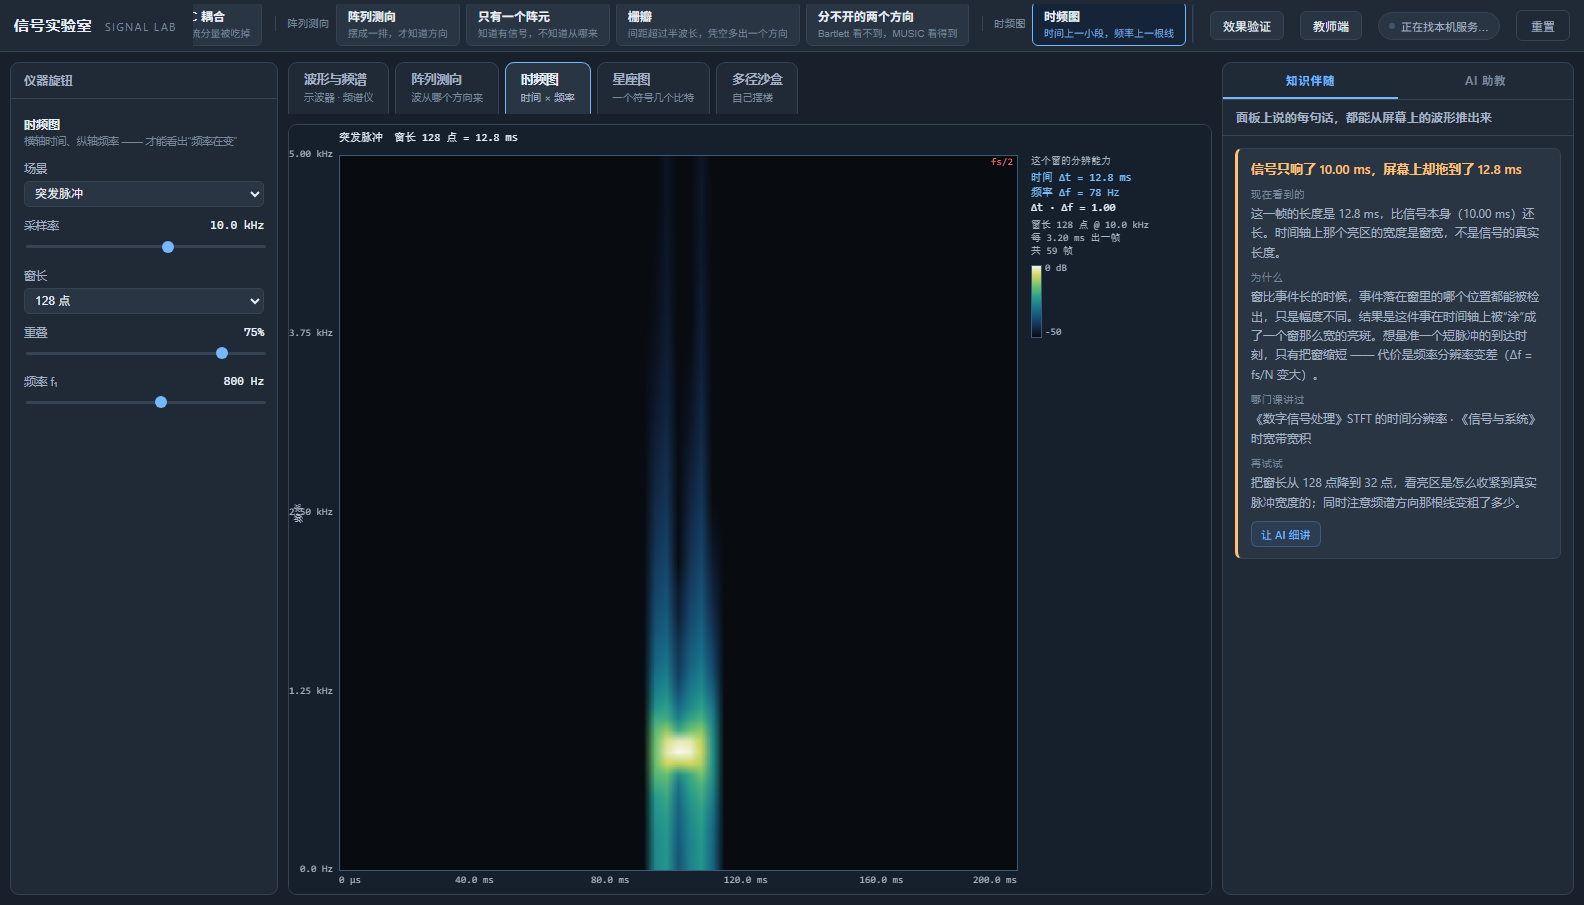
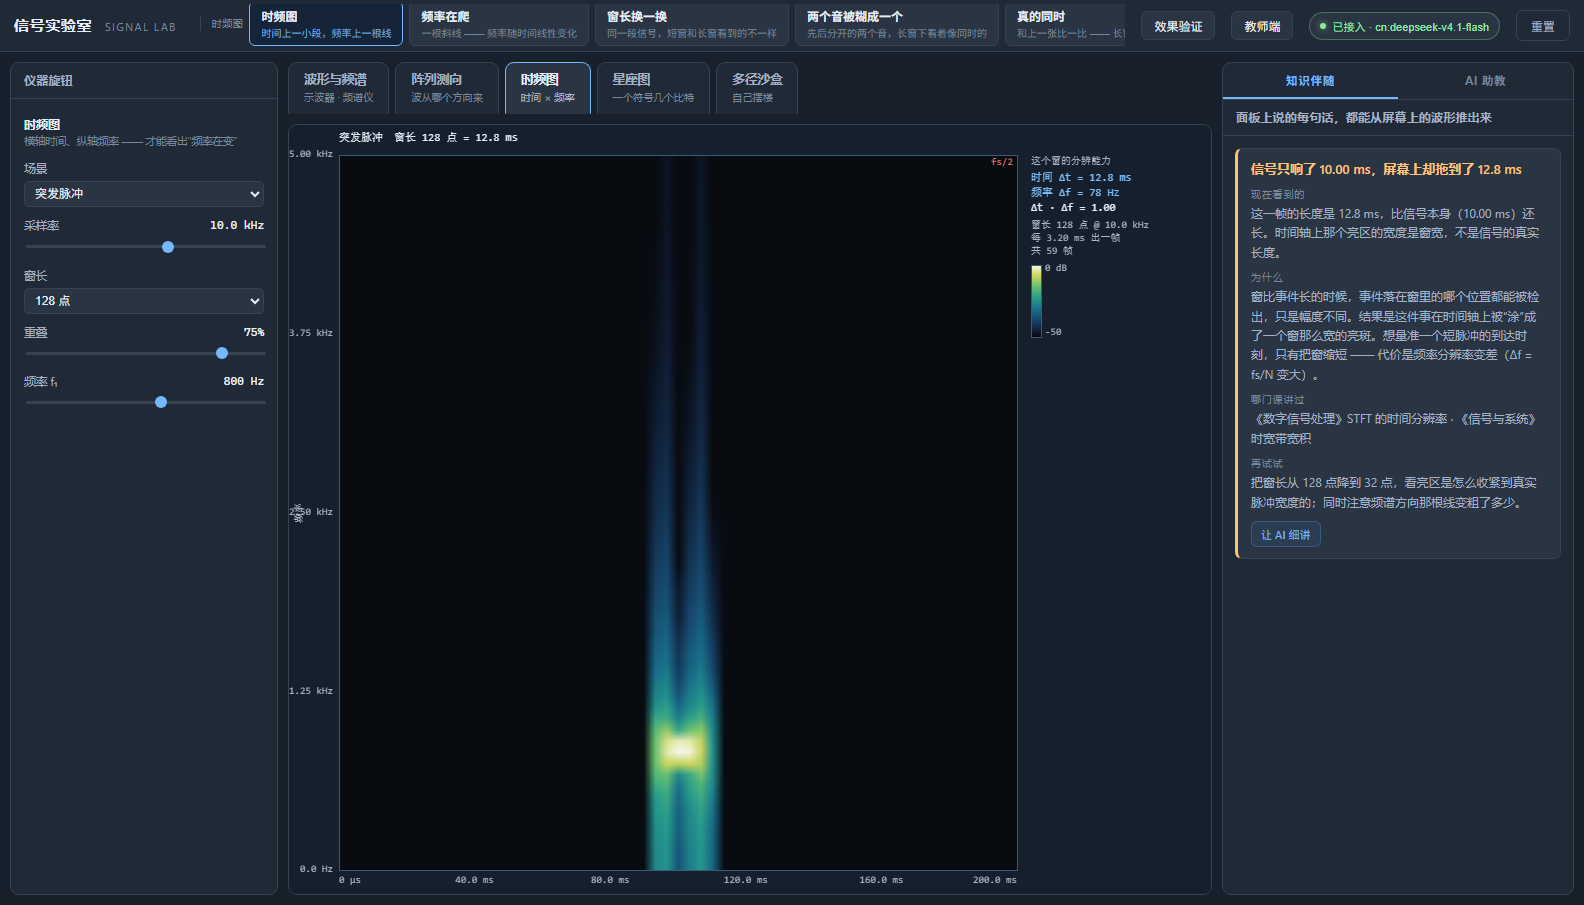
顶栏预设跟着页签过滤，一次只列当前那台仪器的几个
- 二十六个预设摆一排谁也找不到自己要看的那几个，改成按页签过滤
- 加 docs/发布到GitHub.md，写清本地仓库现状与推上去的两个命令
- 刷新 docs/img 下五张仪器截图

Changed region(s): [[0.1237, 0.0, 0.928, 0.0619]]

diff --git a/app/js/main.js b/app/js/main.js
@@ -311,6 +311,16 @@
         b.setAttribute('aria-selected', on ? 'true' : 'false');
       });
     }
+    // 顶栏的预设也只留这台仪器的，二十六个摆一排谁也找不到自己要看的那几个
+    if (els.presets) {
+      els.presets.querySelectorAll('.preset').forEach(function (b) {
+        b.hidden = b.dataset.instr !== id;
+      });
+      els.presets.querySelectorAll('.preset-group').forEach(function (g) {
+        g.hidden = g.dataset.instr !== id;
+      });
+      els.presets.scrollLeft = 0;
+    }
     if (els.controls) {
       els.controls.querySelectorAll('.group').forEach(function (g) {
         g.hidden = g.dataset.instr !== id;
@@ -787,10 +797,12 @@
         var lab = document.createElement('span');
         lab.className = 'preset-group' + (g.at === 0 ? ' preset-group--first' : '');
         lab.textContent = g.name;
+        lab.dataset.instr = g.instr || 'wave';
         els.presets.appendChild(lab);
       });
       var b = document.createElement('button');
       b.className = 'preset';
+      b.dataset.instr = instrOfPreset(idx);
       b.innerHTML = '<b>' + pre.name + '</b><i>' + pre.hint + '</i>';
       b.addEventListener('click', function () { applyPreset(idx); });
       els.presets.appendChild(b);

diff --git a/app/css/style.css b/app/css/style.css
@@ -97,6 +97,9 @@ body {
 }
 .preset-group--first { margin-left: 0; padding-left: 0; border-left: 0; }
 
+.preset[hidden],
+.preset-group[hidden] { display: none; }
+
 .preset {
   flex: 0 0 auto;
   display: flex;
@@ -111,7 +114,7 @@ body {
   text-align: left;
   transition: border-color .12s, background .12s;
 }
-.preset b { font-size: 12px; font-weight: 600; }
+.preset b { font-size: 12px; font-weight: 600; white-space: nowrap; }
 .preset i {
   font-size: 10px;
   font-style: normal;

diff --git a/docs/发布到GitHub.md b/docs/发布到GitHub.md
@@ -1,0 +1,85 @@
+# 把这个项目单独推成一个 GitHub 仓库
+
+本地仓库已经建好了：`em-signal-lab/` 自己就是一个独立的 git 仓库，两次提交都在本地，跟外面的 `EM-benchmark` 仓库没有关系（父仓库没有跟踪这个目录）。
+
+差的只有一步：远端地址和一次 `push`。
+
+---
+
+## 1. 在 GitHub 上建一个空仓库
+
+打开 <https://github.com/new>，填：
+
+| 字段 | 填什么 |
+| --- | --- |
+| Repository name | `em-signal-lab` |
+| Description | 浏览器里的电子实验室：仿真仪器 + AI 助教 + 分层练习 |
+| 可见性 | Public |
+| Initialize this repository with | **三个都不要勾**（不勾 README、不勾 .gitignore、不选 license） |
+
+勾了的话远端会先有一个提交，`push` 会被拒（non-fast-forward），还得多一步 `--allow-unrelated-histories`。空仓库最省事。
+
+---
+
+## 2. 配好远端并推上去
+
+在 PowerShell 或 Git Bash 里：
+
+```bash
+cd D:/srtp/EM-benchmark/em-signal-lab
+
+git remote add origin https://github.com/qingchen102/em-signal-lab.git
+git push -u origin main
+```
+
+第一次推会弹出 Git Credential Manager 让你登录 GitHub 或授权，登一次以后就记住了。
+
+如果习惯用 SSH：
+
+```bash
+git remote add origin git@github.com:qingchen102/em-signal-lab.git
+git push -u origin main
+```
+
+---
+
+## 3. 推上去之后建议做的两件事
+
+**改仓库描述和话题。** GitHub 仓库页右上角 ⚙ → Description 填一句话，Topics 建议填：
+
+```
+signal-processing  oscilloscope  dsp  education  hackathon  vanilla-js  canvas
+```
+
+**给 README 顶部加一行在线体验说明。** 这个项目是纯前端、零依赖，理论上把 `app/` 目录丢到 GitHub Pages 上就能直接在线打开：
+
+```bash
+# 仓库 Settings → Pages → Source 选 Deploy from a branch → main / 根目录
+# 然后把访问地址加进 README
+```
+
+注意要放 `app/` 下的文件，或者把 Pages 的目录指到 `app/`。页面里 AI 助教需要本机转发服务（上游中转站不响应 CORS 预检），放到 Pages 上之后助教会连不上 —— 这是已知的、写进 README 里的限制；五台仪器本身完全离线可用。
+
+---
+
+## 4. 以后每次改完怎么推
+
+```bash
+cd D:/srtp/EM-benchmark/em-signal-lab
+git add -A
+git commit -m "改了什么"
+git push
+```
+
+---
+
+## 现在仓库里有什么
+
+| | |
+| --- | --- |
+| 文件数 | 135 |
+| 仓库体积 | 约 2.1 MB（含 7 张界面截图） |
+| 提交 | 2 次 |
+| 被 gitignore 的 | `shots/`（本机截图草稿）、`llm.local.json`（含 API Key）、`__pycache__` |
+
+进仓库的截图在 `docs/img/`，README 开头引的就是这几张。

diff --git a/PLAN.md b/PLAN.md
@@ -25,7 +25,7 @@
 | 多径沙盒 | ✅ | 二维几何光学：镜像法 1～2 阶镜面反射 + 垂直极化菲涅尔系数 + 自由空间路损 + 矩形遮挡；四个场景（开阔地 / 城市峡谷 / 街角 / 密集楼群）；楼、发射机、阵列都能拖，松手就重算；右侧实时读出时延扩展 σ_τ 与相干带宽 Bc = 1/(5σ_τ)；上方 DOA 条把几何路径喂给阵列 —— **一台发射机在谱上真出现了好几个峰**。相干多径下 MUSIC 的谱不能按峰读数：实测（117 次运行）它每次都至少报出一个假峰（canyon 预设里多出 +68.5°，那里没有路径），而 Bartlett 一次都没有 |
 | 界面组织 | ✅ | 顶部五个页签对应五台仪器，**一次只展开一台**；左侧旋钮栏只留当前这台仪器的分组，知识面板也只出这台仪器的卡片。一屏只有几个键，跟真实示波器的面板一个思路 |
 | 知识伴随面板 | ✅ | 30 条规则（10 条时域频域 + 6 条阵列 + 6 条时频 + 4 条星座 + 4 条沙盒），每条四段：现在看到的 / 为什么 / 哪门课讲过 / 再试试 |
-| 预设 | ✅ | 25 个现象一键切换（按「示波器与频谱 / 阵列测向 / 时频图 / 星座图 / 多径沙盒」分五组），也支持 `?preset=混叠` 这种直链；放不下时横向滚动，自动把当前那个滚进视野 |
+| 预设 | ✅ | 25 个现象一键切换（按「示波器与频谱 / 阵列测向 / 时频图 / 星座图 / 多径沙盒」分五组），**顶栏只列当前页签那台仪器的预设**，也支持 `?preset=混叠` 这种直链；切预设会自动跳到对应页签 |
 | AI 助教 | ✅ | 接 `cn:deepseek-v4.1-flash`（走本机 `app/server.py` 转发）；每次提问把仪器状态、采集真实结果、折叠公式数值、学生最近动过的旋钮一起喂给模型；SSE 流式，思考过程折叠显示 |
 | 接入设置 | ✅ | 界面内「接入模型」入口：接口地址 / 模型 / Key / 温度 / 本机服务端口，带「测试连接」；Key 只存在浏览器本地或 `llm.local.json`（已 gitignore） |
 | 效果验证 | ✅ | 内置前测 / 后测：10 道单选题覆盖五块知识点，6 道平行题换数字、4 道锚题一字不差；题目配图用实验台自己的绘图函数渲染（`clean` 模式关掉答案标注）；汇总页给独立样本对比与配对明细，可导出单份 / 宽表 CSV；成绩页可「交给老师」导出 json |

diff --git a/README.md b/README.md
@@ -49,7 +49,7 @@ app/index.html?preset=3          # 也支持序号
 app/index.html?tab=ai            # 直接打开 AI 助教
 ```
 
-二十五个预设，按仪器分五组 —— **示波器与频谱**：干净正弦 / 混叠 / 触发丢失 / 方波与谐波 / 带宽限制 / 时基太快 / 超量程 / AC 耦合；**阵列测向**：阵列测向 / 只有一个阵元 / 栅瓣 / 分不开的两个方向；**时频图**：时频图 / 频率在爬 / 窗长换一换 / 两个音被糊成一个 / 真的同时；**星座图**：QPSK 星座图 / 升到 64QAM / 给 64QAM 补 9 dB / BPSK 为什么抗造；**多径沙盒**：一台发射机三个方向 / 楼把直达挡死了 / 把反射关掉 / 密集楼群。
+二十五个预设，按仪器分五组 —— **页签切到哪台仪器，顶栏就只列那台仪器的预设**（所以一次最多看到 8 个）—— **示波器与频谱**：干净正弦 / 混叠 / 触发丢失 / 方波与谐波 / 带宽限制 / 时基太快 / 超量程 / AC 耦合；**阵列测向**：阵列测向 / 只有一个阵元 / 栅瓣 / 分不开的两个方向；**时频图**：时频图 / 频率在爬 / 窗长换一换 / 两个音被糊成一个 / 真的同时；**星座图**：QPSK 星座图 / 升到 64QAM / 给 64QAM 补 9 dB / BPSK 为什么抗造；**多径沙盒**：一台发射机三个方向 / 楼把直达挡死了 / 把反射关掉 / 密集楼群。
 
 ---
 
@@ -324,6 +324,7 @@ app/index.html?tab=ai            # 直接打开 AI 助教
 | `app/test/shot.js` | CDP 驱动无头 Chrome：能点能截图的截图工具 |
 | [`PLAN.md`](PLAN.md) | 产品规划 v0.7（§0 是当前实现状态） |
 | `docs/img/` | 进仓库的界面截图（五台仪器 + 教师端全班报告 + 测验成绩页） |
+| `docs/发布到GitHub.md` | 想在 GitHub 上单独开一个仓库时照着做（本地 git 仓库已经建好，只差远端和一次 push） |
 | `shots/` | 本机截图草稿目录（已 gitignore，演示前重新生成即可） |
 | [`docs/效果验证协议.md`](docs/效果验证协议.md) | 前测 / 后测的设计、跑法、数据怎么读、证明不了什么 |
 | [`docs/演示脚本.md`](docs/演示脚本.md) | 现场 8 分钟逐屏脚本、3 分钟录屏版、三个高频追问、翻车清单 |
